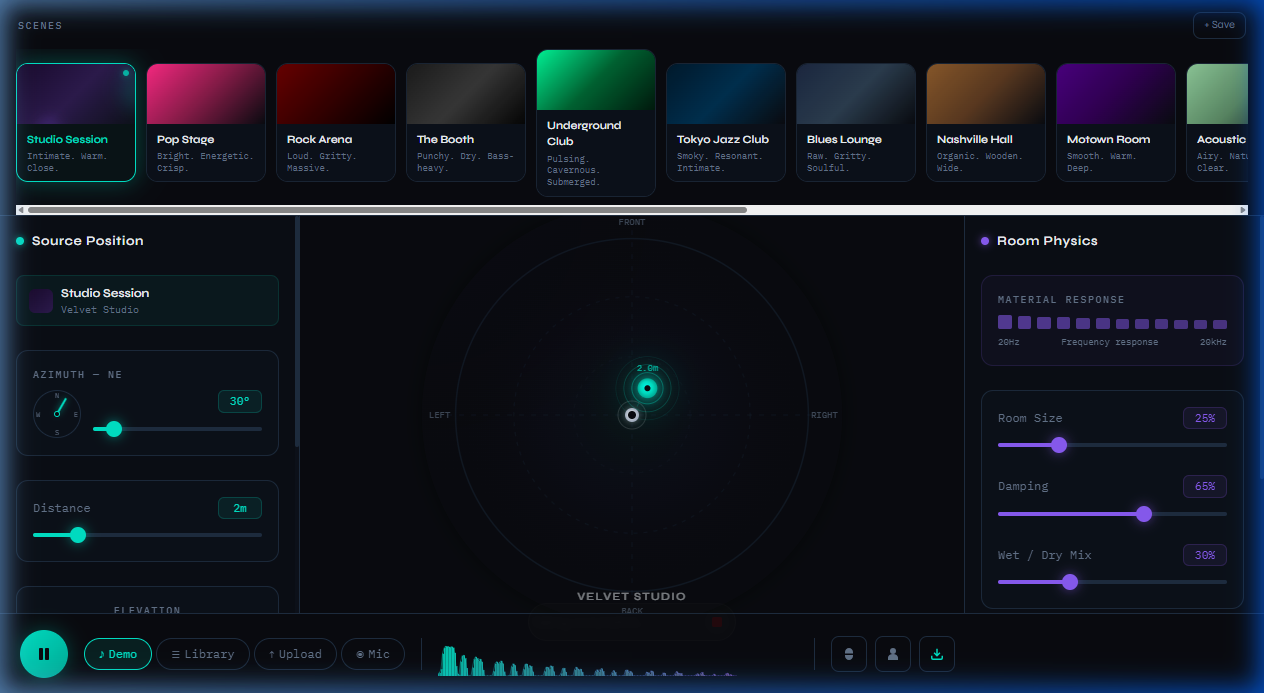
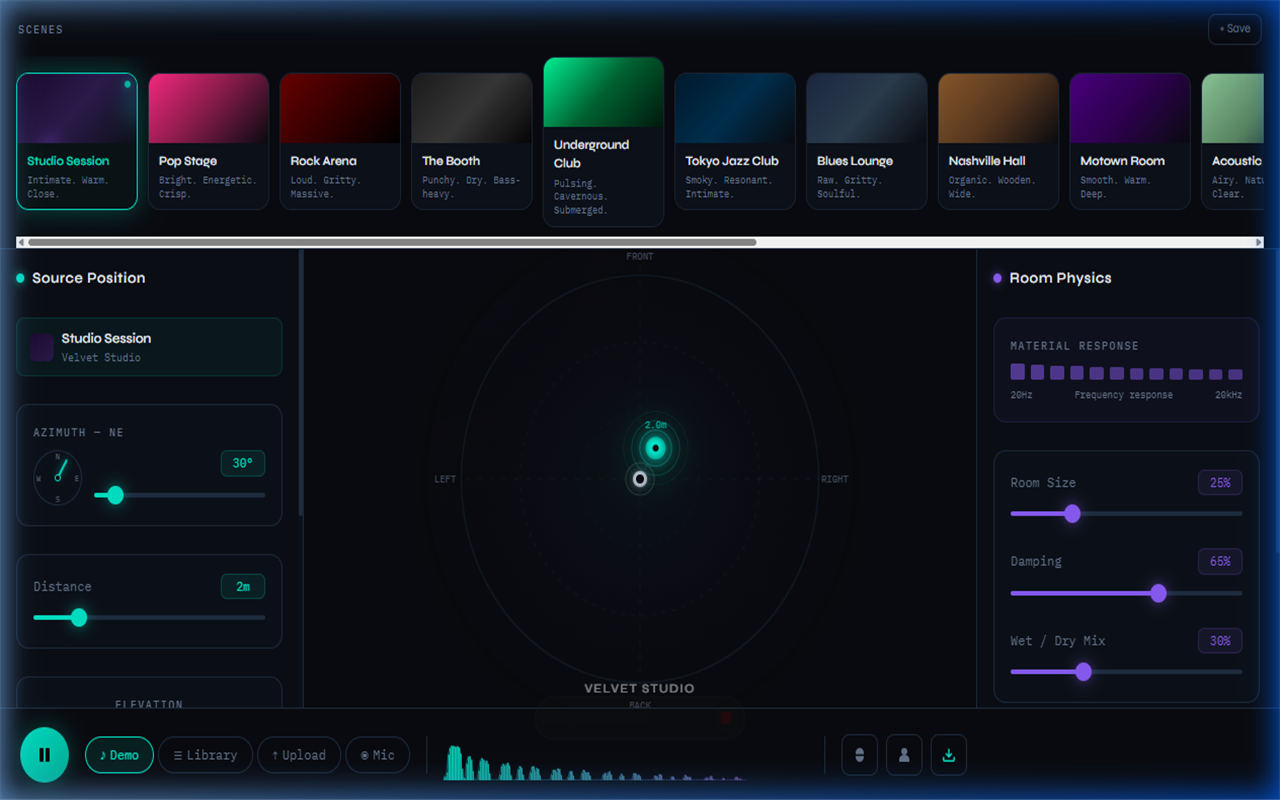
Final manifest validation: sync screenshot sizes and add recommended PWA fields

diff --git a/vite.config.ts b/vite.config.ts
@@ -23,8 +23,12 @@ export default defineConfig({
         theme_color: '#090B10',
         background_color: '#090B10',
         display: 'standalone',
+        display_override: ['window-controls-overlay', 'standalone', 'minimal-ui'],
         start_url: '/',
         orientation: 'portrait',
+        categories: ['music', 'productivity', 'utilities'],
+        dir: 'ltr',
+        prefer_related_applications: false,
         icons: [
           {
             src: 'pwa-192x192.png',